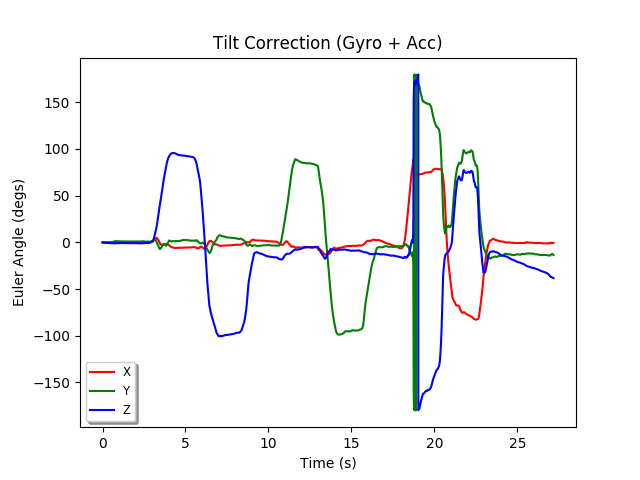
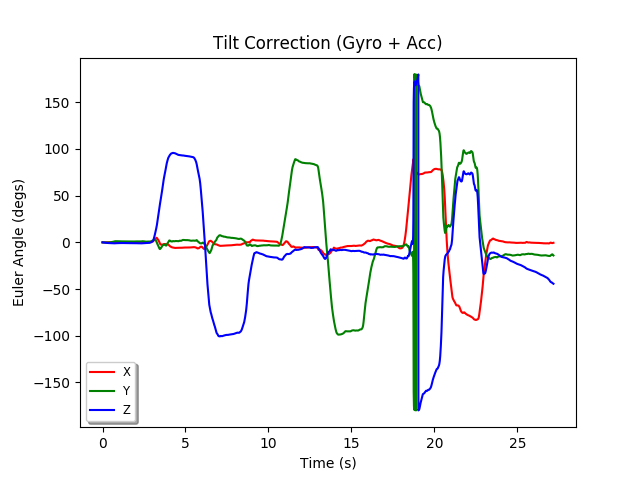
fix inverse calculation using stanford slides

diff --git a/data_corrector.py b/data_corrector.py
@@ -165,13 +165,20 @@ def gyro_acc_positioning(imu_data):
         ### PITCH/TILT CORRECTION
         ### convert acc data to the global frame
         acc_qtrn = np.insert(point[acc_range], 0, 0)
-        acc_qtrn = qtrn_mult(qtrn_mult(curr_pos, acc_qtrn), qtrn_conj(curr_pos))
+        inv_curr = qtrn_conj(curr_pos) / np.repeat(np.linalg.norm(curr_pos)**2,4)
+        print("inv curr", inv_curr)
+        acc_qtrn = qtrn_mult(qtrn_mult(curr_pos, acc_qtrn), inv_curr)
         acc_vec = acc_qtrn[1:]
+        acc_vec = np.repeat(1/np.linalg.norm(acc_vec),3) * acc_vec
+
+        print("acc world", acc_vec)
         ### calculate the tilt error
         # x = index 0, z = index 2
-        tilt_error_axis = np.array([acc_vec[2], 0.0, -acc_vec[0]])
+        x, z = acc_vec[0], acc_vec[2]
+        tilt_error_axis = np.array([z, 0.0, -x])
+        tilt_error_axis = np.repeat(1/np.linalg.norm(tilt_error_axis),3) * tilt_error_axis
         cos_ang = np.dot(up_vec, acc_vec)
-        # manage rounding errors, there should only be little deviation here
+        # possible rounding errors
         cos_ang = cos_ang if cos_ang > -1 else -1
         cos_ang = cos_ang if cos_ang < +1 else +1
         tilt_error_angle = np.arccos(cos_ang)
